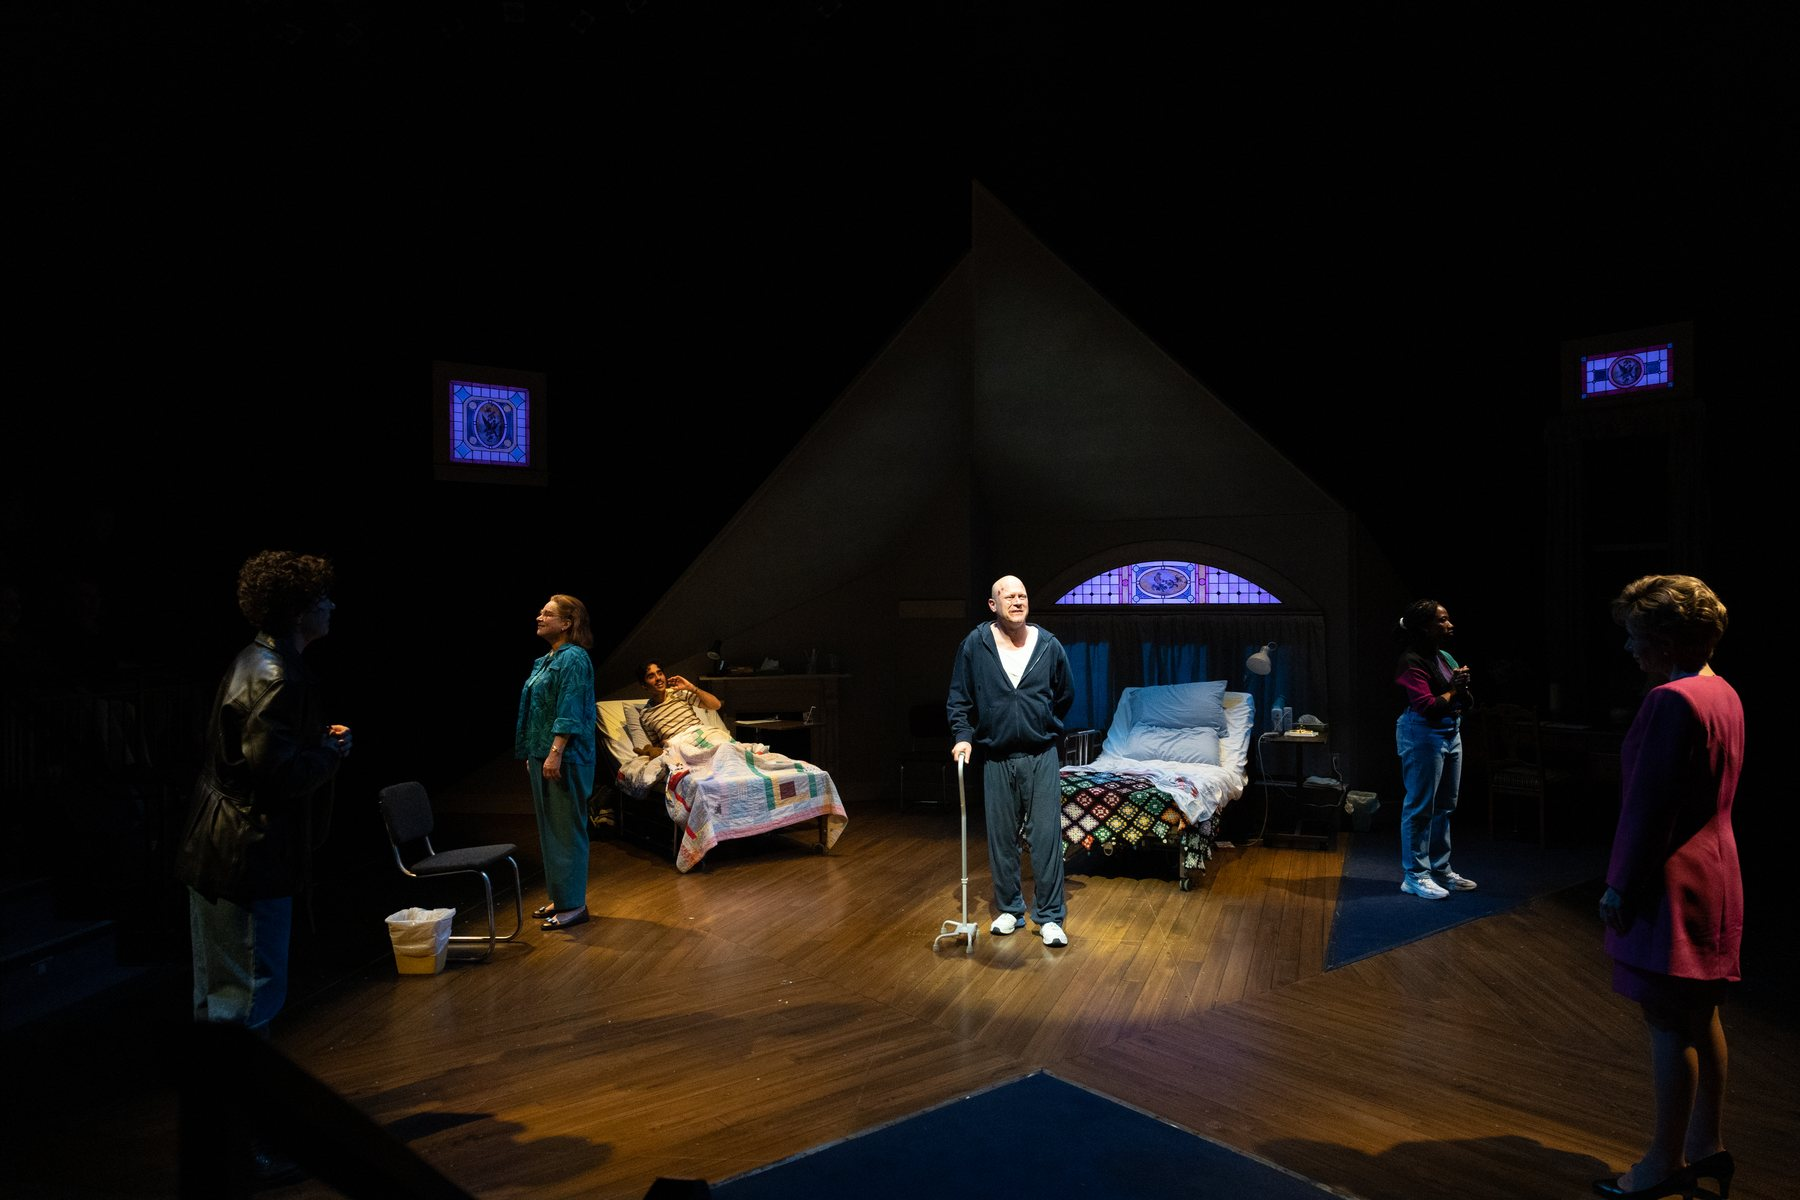
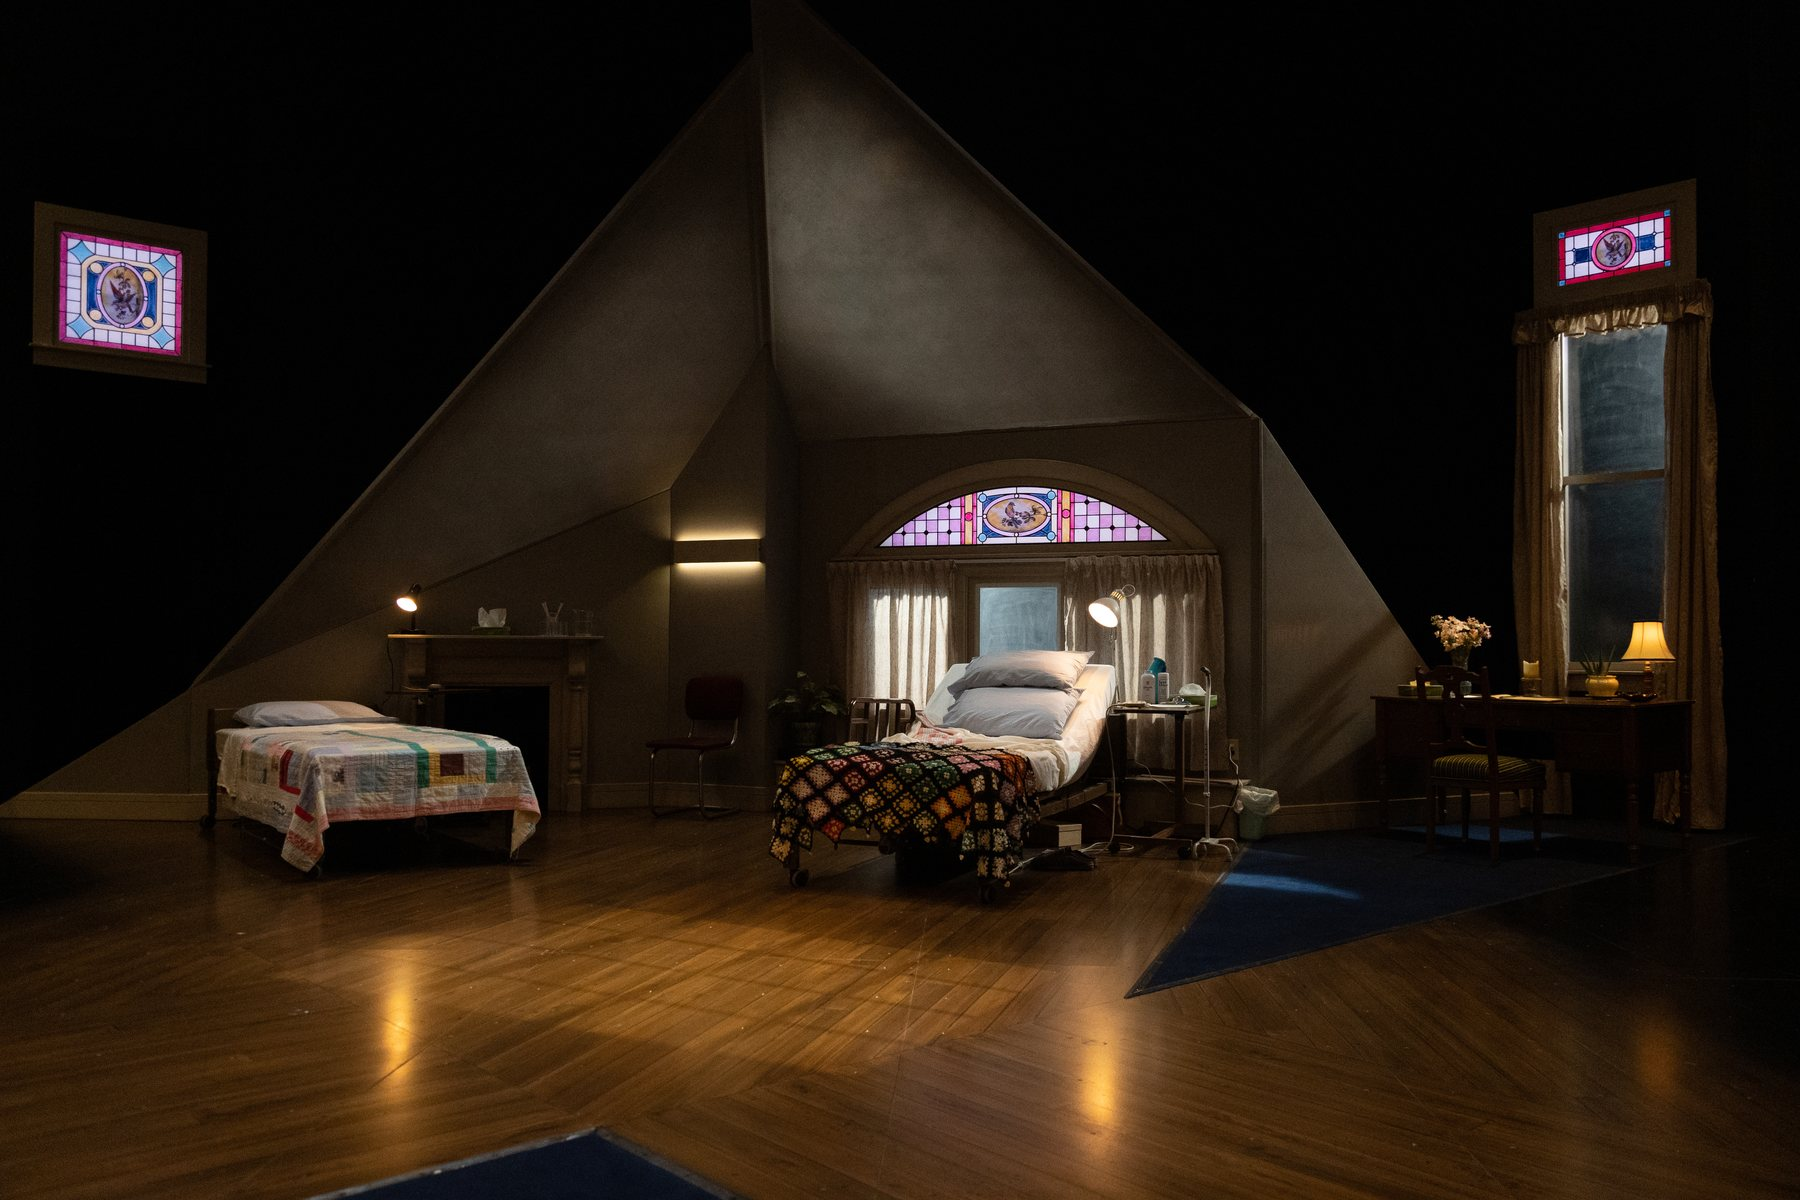
Add files via upload

diff --git a/direction.html b/direction.html
@@ -54,6 +54,20 @@
       <div class="wrap">
 
         <article class="work-item">
+          <div class="gallery" data-title="The Division">
+            <button class="gthumb" data-large="images/the-division/1-large.jpg"><img src="images/the-division/1-thumb.jpg" alt="The Division, Project: Humanity / Crow's Theatre — photo by Dahlia Katz" loading="lazy"></button>
+            <button class="gthumb" data-large="images/the-division/2-large.jpg"><img src="images/the-division/2-thumb.jpg" alt="The Division, Project: Humanity / Crow's Theatre — photo by Dahlia Katz" loading="lazy"></button>
+            <button class="gthumb" data-large="images/the-division/3-large.jpg"><img src="images/the-division/3-thumb.jpg" alt="The Division, Project: Humanity / Crow's Theatre — photo by Dahlia Katz" loading="lazy"></button>
+            <button class="gthumb" data-large="images/the-division/4-large.jpg"><img src="images/the-division/4-thumb.jpg" alt="The Division, Project: Humanity / Crow's Theatre — photo by Dahlia Katz" loading="lazy"></button>
+          </div>
+          <div>
+            <span class="year">2026</span>
+            <h3>The Division</h3>
+            <p class="credits">by Andrew Kushnir. Workshop production at TMU School of Performance (2022); full production 2026 with Project: Humanity, Pyretic Productions and Crow's Theatre.</p>
+          </div>
+        </article>
+
+        <article class="work-item">
           <div class="gallery" data-title="Casey and Diana">
             <button class="gthumb" data-large="images/casey-and-diana/1-large.jpg"><img src="images/casey-and-diana/1-thumb.jpg" alt="Casey and Diana, Stratford Festival — photo by Cylla von Tiedemann" loading="lazy"></button>
             <button class="gthumb" data-large="images/casey-and-diana/2-large.jpg"><img src="images/casey-and-diana/2-thumb.jpg" alt="Casey and Diana, Stratford Festival — photo by Cylla von Tiedemann" loading="lazy"></button>
@@ -94,20 +108,6 @@
             <span class="year">2024</span>
             <h3>The Trials</h3>
             <p class="credits">by Dawn King. Mainstage, University of Toronto Centre for Drama, Theatre and Performance Studies.</p>
-          </div>
-        </article>
-
-        <article class="work-item">
-          <div class="gallery" data-title="The Division">
-            <button class="gthumb" data-large="images/the-division/1-large.jpg"><img src="images/the-division/1-thumb.jpg" alt="The Division, Project: Humanity / Crow's Theatre — photo by Dahlia Katz" loading="lazy"></button>
-            <button class="gthumb" data-large="images/the-division/2-large.jpg"><img src="images/the-division/2-thumb.jpg" alt="The Division, Project: Humanity / Crow's Theatre — photo by Dahlia Katz" loading="lazy"></button>
-            <button class="gthumb" data-large="images/the-division/3-large.jpg"><img src="images/the-division/3-thumb.jpg" alt="The Division, Project: Humanity / Crow's Theatre — photo by Dahlia Katz" loading="lazy"></button>
-            <button class="gthumb" data-large="images/the-division/4-large.jpg"><img src="images/the-division/4-thumb.jpg" alt="The Division, Project: Humanity / Crow's Theatre — photo by Dahlia Katz" loading="lazy"></button>
-          </div>
-          <div>
-            <span class="year">2022</span>
-            <h3>The Division</h3>
-            <p class="credits">by Andrew Kushnir. Workshop production at TMU School of Performance; full production 2026 with Project: Humanity, Pyretic Productions and Crow's Theatre.</p>
           </div>
         </article>
 
@@ -203,12 +203,12 @@
     <section class="block">
       <div class="wrap narrow">
         <h2 class="section-title">Selected additional credits</h2>
-        <p class="section-sub">Directing, associate directing (AD), and new play development (NPD).</p>
+        <p class="section-sub">Directing, associate directing (AD), and new play development.</p>
         <ul class="linklist">
           <li>Encountering Ukraine (2023) — Director/Curator, Stratford Festival</li>
-          <li>Memento Mori (NPD, 2024) — Director, Tarragon Theatre</li>
-          <li>33 1/3 (NPD, 2023) — Director, Theatre Aquarius</li>
-          <li>Chew (NPD, 2020–2025) — Director, Crow's Theatre / Project: Humanity</li>
+          <li>Memento Mori (New Play Development, 2024) — Director, Tarragon Theatre</li>
+          <li>33 1/3 (New Play Development, 2023) — Director, Theatre Aquarius</li>
+          <li>Chew (New Play Development, 2020–2025) — Director, Crow's Theatre / Project: Humanity</li>
           <li>Troilus and Cressida (2019) — Director, Langham Projects / Stratford Festival</li>
           <li>Edward II / Richard II (2018) — Director, Langham Projects / Stratford Festival</li>
           <li>The Merry Wives of Windsor (2019) — AD to Antoni Cimolino, Stratford Festival</li>
@@ -217,10 +217,6 @@
           <li>The Wedding Party (2017) — AD to Chris Abraham, Crow's Theatre</li>
           <li>We Are Not Alone (2018) — Associate Director, 2b theatre / Crow's Theatre</li>
           <li>Freedom Singer National Tour (2017) — Director/co-creator, 14-city Canadian tour</li>
-          <li>Asian Riffing Trio (NPD, 2017) — Director, The Musical Stage Company</li>
-          <li>vərˈbādəm (2017) — Co-director/Dramaturge, SummerWorks / Project: Humanity</li>
-          <li>33 1/3 (2016) — Director/Dramaturge, Sheridan College CMTP (Hendry Award, Best New Musical 2015)</li>
-          <li>Full Dark (2016) — Director, Buddies in Bad Times Rhubarb Festival</li>
         </ul>
       </div>
     </section>

diff --git a/about.html b/about.html
@@ -34,7 +34,7 @@
 
     <section class="block">
       <div class="wrap narrow prose">
-        <img src="https://images.squarespace-cdn.com/content/v1/5c01672331d4df2f0f9d16e8/1585955528370-FG833TURFJPLRFF7DVQD/Andrew+Kushnir-photobyDahliaKatz-4016.jpeg" alt="Andrew Kushnir, photo by Dahlia Katz" style="border-radius:10px;margin-bottom:28px" />
+        <img src="https://images.squarespace-cdn.com/content/v1/5c01672331d4df2f0f9d16e8/1585955528370-FG833TURFJPLRFF7DVQD/Andrew+Kushnir-photobyDahliaKatz-4016.jpeg" alt="Andrew Kushnir, photo by Dahlia Katz" style="border-radius:4px;margin-bottom:28px" />
         <p>
           Andrew Kushnir is a Canadian playwright, director, performer, teacher, and
           community arts worker who calls Toronto home. He is artistic director of the
@@ -84,21 +84,6 @@
           <a href="mailto:[email redacted]">[email redacted]</a>, (416) 645-0935.
         </p>
         <p>General: <a href="mailto:[email redacted]">[email redacted]</a></p>
-      </div>
-    </section>
-
-    <section class="block">
-      <div class="wrap">
-        <h2 class="section-title">Key affiliations</h2>
-        <p class="section-sub">Companies and institutions Andrew works with.</p>
-        <div class="cards">
-          <a class="card" href="https://www.projecthumanity.ca"><h3>Project: Humanity</h3><p>Artistic director.</p></a>
-          <a class="card" href="https://www.cdtps.utoronto.ca/people/directories/all-faculty/andrew-kushnir"><h3>U of T — CDTPS</h3><p>Centre for Drama, Theatre &amp; Performance Studies.</p></a>
-          <div class="card"><h3>Crow's Theatre</h3><p>Director &amp; co-producer.</p></div>
-          <div class="card"><h3>Tarragon Theatre</h3><p>Playwright.</p></div>
-          <div class="card"><h3>Stratford Festival</h3><p>Director.</p></div>
-          <div class="card"><h3>Drama Research</h3><p>Dr. Kathleen Gallagher, U of T.</p></div>
-        </div>
       </div>
     </section>
   </main>

diff --git a/new-works.html b/new-works.html
@@ -43,11 +43,12 @@
         <article class="work-item">
           <div class="thumb"><img src="https://www.crowstheatre.com/de/cache/apps/shows/1010/w2400_DIV_2400x1350_Centered.jpg" alt="The Division, photo by Dahlia Katz" /></div>
           <div>
-            <span class="year">2022 &amp; 2026</span>
+            <span class="year">2026</span>
             <h3>The Division</h3>
-            <p class="credits">Written and directed by Andrew Kushnir. Project: Humanity and Pyretic Productions in association with Crow's Theatre. Originally featured at the National Queer Theatre, Lincoln Center, NYC.</p>
+            <p class="credits">Written and directed by Andrew Kushnir. Project: Humanity and Pyretic Productions in association with Crow's Theatre. Originally workshopped at the National Queer Theatre, Lincoln Center, NYC.</p>
             <p class="excerpt">A 19,000-kilometre journey through Ukraine and Europe with an inherited timepiece and daunting questions — a gripping new work on identity, legacy, and the slyness of memory.</p>
-            <blockquote class="pull">A stunning new play.<cite>— The Globe and Mail ★★★★★</cite></blockquote>
+            <p class="award">Nominated for 6 Dora Awards including Outstanding Production, Outstanding Direction and Outstanding New Play</p>
+            <blockquote class="pull">A stunning new play.<cite>— The Globe and Mail, Critic's Pick</cite></blockquote>
           </div>
         </article>
 
@@ -111,16 +112,6 @@
             <p class="credits">Directed by Alan Dilworth. Co-produced by Project: Humanity, Canadian Stage and Theatre Passe Muraille.</p>
             <p class="award">Winner, Toronto Theatre Critics' Award for Best Production of a Play · 2 Dora nominations including Outstanding New Play</p>
             <blockquote class="pull">Kushnir has distilled 400 pages of transcriptions into a moving, funny, sobering look at a world that is all too real that we might want to ignore.<cite>— CBC Radio</cite></blockquote>
-          </div>
-        </article>
-
-        <article class="work-item">
-          <div class="thumb"><img src="https://images.squarespace-cdn.com/content/v1/5c01672331d4df2f0f9d16e8/1cc0c2f3-ea78-445e-a56a-5e2743bb94db/2023-06-23_SFTC_Atrium_TheDivision_SachynMital-213.jpg" alt="This Is Something Else" /></div>
-          <div>
-            <span class="year">2021 &amp; 2024</span>
-            <h3>This Is Something Else</h3>
-            <p class="credits">Consciously eclectic histories of the Arts Club. Written, directed and hosted by Andrew Kushnir. A podcast series — sound design by Kevin Gault, original composition by The Golden Age of Wrestling.</p>
-            <p><a href="https://thisissomethingelse.podbean.com">Listen to the podcast →</a></p>
           </div>
         </article>
 

diff --git a/index.html b/index.html
@@ -42,7 +42,7 @@
     <!-- Featured / recent -->
     <section class="feature">
       <div class="wrap">
-        <img src="https://www.crowstheatre.com/de/cache/apps/shows/1010/w2400_DIV_2400x1350_Centered.jpg" alt="The Division — photo of Andrew Kushnir by Dahlia Katz" />
+        <iframe src="https://www.youtube.com/embed/uSmJHdc4RK8" title="The Division — trailer" style="width:100%;aspect-ratio:16/9;border:0;border-radius:4px;display:block" allow="accelerometer; autoplay; clipboard-write; encrypted-media; gyroscope; picture-in-picture; web-share" allowfullscreen></iframe>
         <div>
           <p class="eyebrow">Recent · Crow's Theatre, 2026</p>
           <h2>The Division</h2>
@@ -53,7 +53,8 @@
             Kushnir; a Project: Humanity and Pyretic Productions production in
             association with Crow's Theatre.
           </p>
-          <p class="stars">★★★★★ <span style="color:var(--muted);font-weight:400">"A stunning new play." — The Globe and Mail</span></p>
+          <p class="stars">Critic's Pick · <span style="color:var(--muted);font-weight:400">"A stunning new play." — The Globe and Mail</span></p>
+          <p class="stars">★★★★★ <span style="color:var(--muted);font-weight:400">"A gripping live investigation into memory and myth." — NEXT Magazine</span></p>
           <div class="cta-row">
             <a href="new-works.html" class="btn btn-ghost">More new works</a>
           </div>

diff --git a/press.html b/press.html
@@ -36,7 +36,10 @@
       <div class="wrap narrow">
         <h3 class="group-title">The Division</h3>
         <ul class="linklist">
-          <li><a href="https://www.crowstheatre.com/shows-events/the-division">★★★★★ "A stunning new play."</a> — The Globe and Mail</li>
+          <li><a href="https://www.theglobeandmail.com/culture/stage/article-the-division-is-a-stunning-new-play-about-time-and-a-complex-chapter/">"A stunning new play." — Critic's Pick</a> — The Globe and Mail</li>
+          <li><a href="https://www.intermissionmagazine.ca/reviews/the-division/">The Division confronts the impossibility of fully knowing the past</a> — Intermission Magazine</li>
+          <li><a href="https://nextmag.ca/review-the-division-is-a-deeply-human-reckoning-with-inherited-legacy/">A deeply human reckoning with inherited legacy</a> — NEXT Magazine</li>
+          <li><a href="https://www.stage-door.com/3/Reviews/">Review of The Division</a> — Stage Door (Christopher Hoile)</li>
         </ul>
 
         <h3 class="group-title">This Is Something Else</h3>

diff --git a/publication.html b/publication.html
@@ -40,9 +40,9 @@
       <div class="wrap narrow">
         <h2 class="section-title">Books &amp; chapters</h2>
         <ul class="linklist">
-          <li><em>Global Climate Education &amp; its Discontents: Using Drama…</em> — Routledge, chapter (2024)</li>
+          <li><em>Global Climate Education and Its Discontents: Using Drama to Forge a New Way</em> — Routledge, chapter (2024)</li>
           <li><em>This Is Beyond: A Time Capsule of Queer Experience</em> — <a href="https://www.playwrightscanada.com/Books/T/This-is-Beyond">Playwrights Canada Press</a>, contributor (2023)</li>
-          <li><em>Moving the Centre: Two Plays — Small Axe &amp; Freedom Singer</em> — <a href="https://talonbooks.com/books/moving-the-centre">Talonbooks</a>, co-written (2022)</li>
+          <li><em>Moving the Centre: Two Plays — Small Axe &amp; Freedom Singer</em> (Freedom Singer co-written with Khari Wendell McClelland) — <a href="https://talonbooks.com/books/moving-the-centre">Talonbooks</a> (2022)</li>
           <li><em>Hope in a Collapsing World</em> (with Kathleen Gallagher) — <a href="https://utorontopress.com/9781487541200/hope-in-a-collapsing-world/">University of Toronto Press</a> (2022). 2023 Distinguished Book Award, American Alliance for Theatre and Education.</li>
           <li><em>Global Youth Citizenry and Radical Hope</em> — Springer, chapter (2019)</li>
           <li><em>The Gay Heritage Project</em> (with Damien Atkins &amp; Paul Dunn) — <a href="https://www.playwrightscanada.com/Books/T/The-Gay-Heritage-Project">Playwrights Canada Press</a> (2018)</li>

diff --git a/outreach.html b/outreach.html
@@ -36,6 +36,7 @@
       <div class="wrap narrow">
         <h2 class="section-title">Talks</h2>
         <ul class="linklist">
+          <li>Narrative Battlefields: Information, Creativity and the Cultural Front (May 2026) — a conversation with Marci Shore at Massey College. <a href="https://youtu.be/jfM938KbqU8">Watch the video</a></li>
           <li>Loran 35th Nationals Dinner — Keynote Address (February 2024)</li>
           <li>IDIERI 2022 Conference — Epilogue (June 2022)</li>
           <li><a href="http://www.questconference.ca/keynote-speakers/">Quest Conference</a> — Keynote Speaker (November 2019)</li>
@@ -49,6 +50,8 @@
       <div class="wrap narrow">
         <h2 class="section-title">Workshops, classes &amp; programs</h2>
         <ul class="linklist">
+          <li>Intensive and Workshop Facilitator for the <a href="https://mccallmacbainscholars.org">McCall MacBain Scholars</a> program (2020–present)</li>
+          <li>Writing Conflict Masterclass — Shanghai Dramatic Arts Centre (December 2024)</li>
           <li>DRM400 Advanced Performance — CDTPS, University of Toronto (Fall 2024)</li>
           <li>Directors' Lab North — guest workshop facilitator (2024)</li>
           <li>DRM403 Mainstage Instructor — CDTPS, University of Toronto (2023–2024)</li>